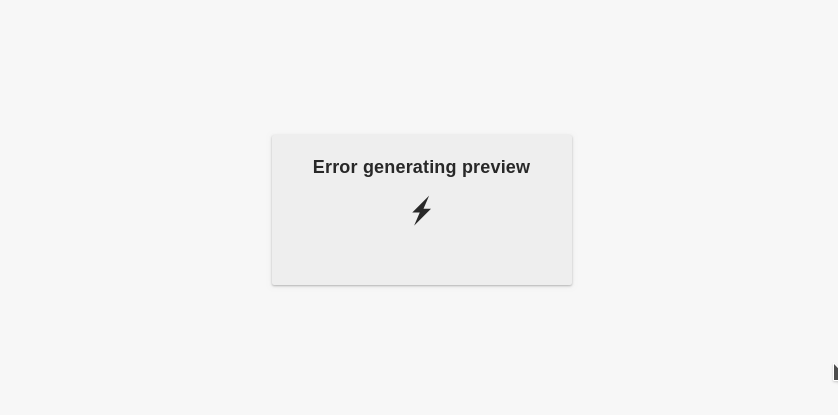
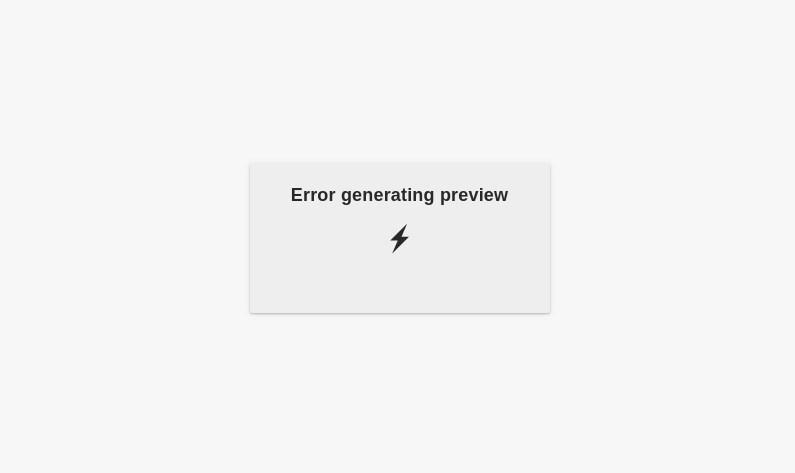
Update from Forestry.io DJ Walker++ deleted hugo/static/uploads/2019/02/errorgeneratingpreview.png DJ Walker++ created hugo/static/uploads/2019/02/errorgeneratingpreview.png DJ Walker++ updated hugo/content/docs/previews/troubleshooting-preview-issues.md

Changed region(s): [[0.3623, 0.3759, 0.634, 0.4337], [0.9962, 0.8675, 1.0, 0.9253], [0.483, 0.4916, 0.5132, 0.5494]]

diff --git a/hugo/content/docs/previews/troubleshooting-preview-issues.md b/hugo/content/docs/previews/troubleshooting-preview-issues.md
@@ -35,6 +35,8 @@ Either way: if you're encountering one of these two problems, this guide can hel
 
 ## Error Generating Preview
 
+![](/uploads/2019/02/errorgeneratingpreview.png)
+
 If Forestry is unable to build your site, check the following:
 
 ### Does your build command look correct?
@@ -113,7 +115,7 @@ Even if you can't locate a problem in the output log, if you decide to send us a
 
 ### Ensure you've performed the migration to key-based authentication
 
-If your site was added to forestry before **August 28, 2018**, ensure that you've performed the migration to _key-based authentication_. View the following article for instructions on how to do this: 
+If your site was added to forestry before **August 28, 2018**, ensure that you've performed the migration to _key-based authentication_. View the following article for instructions on how to do this:
 
 [Blog: Migrating to Key-Based Authentication](/blog/migrating-to-key-based-authentication/)
 
